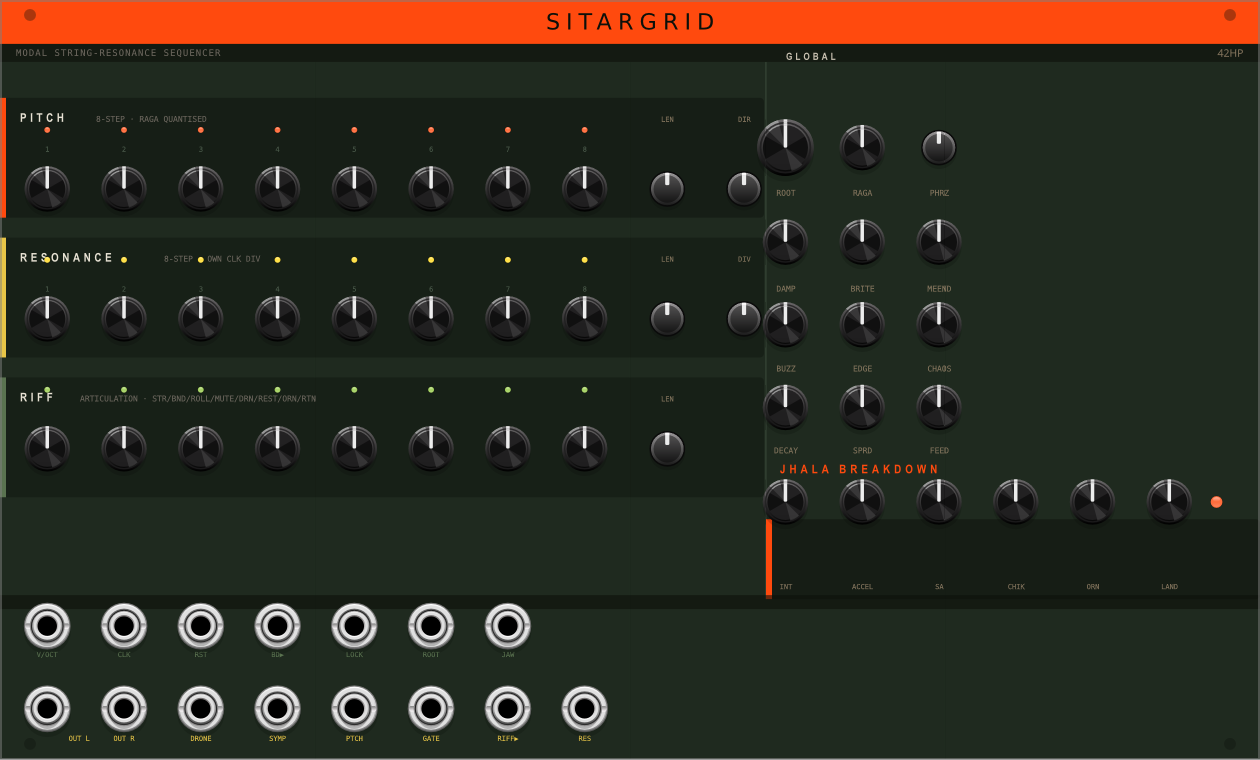
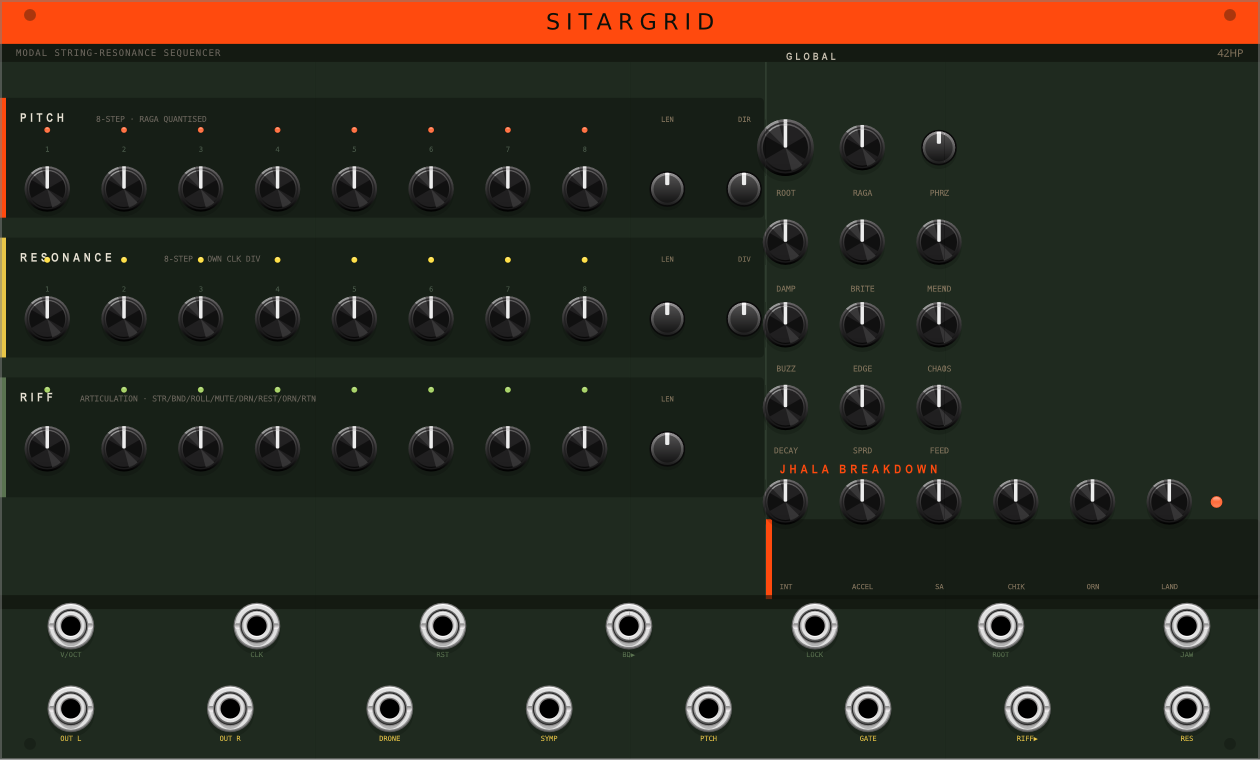
fix(SitarGrid): I/O spans the panel
Seven inputs and eight outputs sat in the left 46% of a 42 HP panel, leaving the
whole band under GLOBAL empty. Both rows now span the full width, inputs then
outputs, which is the left-to-right reading the design system asks for.

Labels are selected by row position rather than by name: RST and ROOT each
appear twice on this panel, once in the sequencer and once in the I/O row.

diff --git a/src/SitarGrid.cpp b/src/SitarGrid.cpp
@@ -584,24 +584,24 @@ struct SitarGridWidget : ModuleWidget {
         const float ioX[10] = {8.f,21.f,34.f,47.f,60.f,73.f,86.f,99.f,113.f,126.f};
 
         // Inputs (y=106mm)
-        addInput(createInputCentered<PJ301MPort>(mm2px(Vec(ioX[0],106.f)), module, SitarGrid::VOCT_INPUT));
-        addInput(createInputCentered<PJ301MPort>(mm2px(Vec(ioX[1],106.f)), module, SitarGrid::CLOCK_INPUT));
-        addInput(createInputCentered<PJ301MPort>(mm2px(Vec(ioX[2],106.f)), module, SitarGrid::RESET_INPUT));
-        addInput(createInputCentered<PJ301MPort>(mm2px(Vec(ioX[3],106.f)), module, SitarGrid::BD_GATE_INPUT));
-        addInput(createInputCentered<PJ301MPort>(mm2px(Vec(ioX[4],106.f)), module, SitarGrid::LOCK_GATE_INPUT));
-        addInput(createInputCentered<PJ301MPort>(mm2px(Vec(ioX[5],106.f)), module, SitarGrid::ROOT_CV_INPUT));
-        addInput(createInputCentered<PJ301MPort>(mm2px(Vec(ioX[6],106.f)), module, SitarGrid::JAWARI_CV_INPUT));
+        addInput(createInputCentered<PJ301MPort>(mm2px(Vec(12.00f, 106.f)), module, SitarGrid::VOCT_INPUT));
+        addInput(createInputCentered<PJ301MPort>(mm2px(Vec(43.50f, 106.f)), module, SitarGrid::CLOCK_INPUT));
+        addInput(createInputCentered<PJ301MPort>(mm2px(Vec(75.00f, 106.f)), module, SitarGrid::RESET_INPUT));
+        addInput(createInputCentered<PJ301MPort>(mm2px(Vec(106.50f, 106.f)), module, SitarGrid::BD_GATE_INPUT));
+        addInput(createInputCentered<PJ301MPort>(mm2px(Vec(138.00f, 106.f)), module, SitarGrid::LOCK_GATE_INPUT));
+        addInput(createInputCentered<PJ301MPort>(mm2px(Vec(169.50f, 106.f)), module, SitarGrid::ROOT_CV_INPUT));
+        addInput(createInputCentered<PJ301MPort>(mm2px(Vec(201.00f, 106.f)), module, SitarGrid::JAWARI_CV_INPUT));
 
 
         // Outputs (y=120mm)
-        addOutput(createOutputCentered<PJ301MPort>(mm2px(Vec(ioX[0],120.f)), module, SitarGrid::MAIN_L_OUTPUT));
-        addOutput(createOutputCentered<PJ301MPort>(mm2px(Vec(ioX[1],120.f)), module, SitarGrid::MAIN_R_OUTPUT));
-        addOutput(createOutputCentered<PJ301MPort>(mm2px(Vec(ioX[2],120.f)), module, SitarGrid::DRONE_OUTPUT));
-        addOutput(createOutputCentered<PJ301MPort>(mm2px(Vec(ioX[3],120.f)), module, SitarGrid::SYMP_OUTPUT));
-        addOutput(createOutputCentered<PJ301MPort>(mm2px(Vec(ioX[4],120.f)), module, SitarGrid::PITCH_CV_OUTPUT));
-        addOutput(createOutputCentered<PJ301MPort>(mm2px(Vec(ioX[5],120.f)), module, SitarGrid::GATE_OUTPUT));
-        addOutput(createOutputCentered<PJ301MPort>(mm2px(Vec(ioX[6],120.f)), module, SitarGrid::RIFF_TRIG_OUTPUT));
-        addOutput(createOutputCentered<PJ301MPort>(mm2px(Vec(ioX[7],120.f)), module, SitarGrid::RES_CV_OUTPUT));
+        addOutput(createOutputCentered<PJ301MPort>(mm2px(Vec(12.00f, 120.f)), module, SitarGrid::MAIN_L_OUTPUT));
+        addOutput(createOutputCentered<PJ301MPort>(mm2px(Vec(39.00f, 120.f)), module, SitarGrid::MAIN_R_OUTPUT));
+        addOutput(createOutputCentered<PJ301MPort>(mm2px(Vec(66.00f, 120.f)), module, SitarGrid::DRONE_OUTPUT));
+        addOutput(createOutputCentered<PJ301MPort>(mm2px(Vec(93.00f, 120.f)), module, SitarGrid::SYMP_OUTPUT));
+        addOutput(createOutputCentered<PJ301MPort>(mm2px(Vec(120.00f, 120.f)), module, SitarGrid::PITCH_CV_OUTPUT));
+        addOutput(createOutputCentered<PJ301MPort>(mm2px(Vec(147.00f, 120.f)), module, SitarGrid::GATE_OUTPUT));
+        addOutput(createOutputCentered<PJ301MPort>(mm2px(Vec(174.00f, 120.f)), module, SitarGrid::RIFF_TRIG_OUTPUT));
+        addOutput(createOutputCentered<PJ301MPort>(mm2px(Vec(201.00f, 120.f)), module, SitarGrid::RES_CV_OUTPUT));
     }
 
     void draw(const DrawArgs& args) override {
